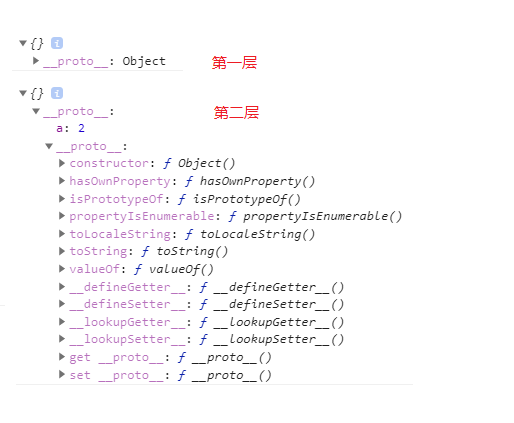
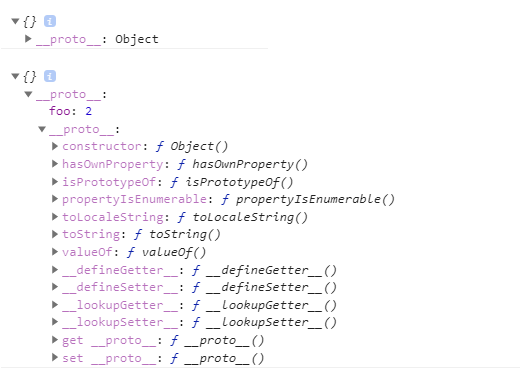
feat:20210207

diff --git a/source/_posts/你不知道的JS系列-3.md b/source/_posts/你不知道的JS系列-3.md
@@ -16,7 +16,7 @@ Javascript的基本设计思路如下：
       (3)借鉴Scheme语言，将函数提升到"第一等公民"(first class)的地位;
       (4)借鉴Self语言，使用基于原型(prototype)的继承机制
 
-说好听点就是集各家所长，难听点就是四不像了~；设计者也未曾料到Javascript会发展壮大到如今的地步，所谓时势造英雄。
+说好听点就是集各家所长，难听点就是四不像了~；设计者也未曾料到Javascript会发展壮大到如今的地步，所谓时势造英雄。在深入了解Javascript后，应当取其精华，弃其糟泊；在《你不知道的JavaScript》中，本书作者其实是极其不推荐使用“模拟类”来设计代码。更推崇使用“行为委托”的方式设计代码。
 
 下面，我们进入正题，再次学习下Javascript的原型与类
 
@@ -29,26 +29,78 @@ Javascript的基本设计思路如下：
 因为一些政治原因，JavaScript 推出之时受管理层之命被要求模仿 Java，所以，Brendan Eich 在“原型运行时”的基础上引入了 new、this 等语言特性，使之“看起来更像 Java”，不过也导致JavaScript的原型链更难理解。
 
 ## 原型
-在 JavaScript 之前，原型系统就更多与高动态性语言配合，Brendan Eich最终选择了原型系统来进行设计，而原型系统的原型系统的“复制操作”有两种实现思路：
+在 JavaScript 之前，原型系统就更多与高动态性语言配合，Brendan Eich最终选择了原型系统来进行设计，而原型系统的“复制操作”有两种实现思路：
 
 - 一个是并不真的去复制一个原型对象，而是使得新对象持有一个原型的引用；
 - 另一个是切实地复制对象，从此两个对象再无关联。
 
 显然，Brendan Eich选择的是第一种，上面已经多次提到了`[[Prototype]]`，就是关联对象的特殊属性：
 
-    var anotherObject = { a:2 }; 
+    var anotherObject = { foo:2 }; 
     var myObject = Object.create( anotherObject );// 创建一个关联到 anotherObject 的对象
-    console.log(myObject.a);// 2
+    console.log(myObject.foo);// 2
 
 熟悉JS中原型链的很容易理解上面的运行结果，当我们获取一个对象属性时就会触发`[[Get]]`操作，该操作的第一步就是检查获取的属性是否存在当前对象中，如果有就使用，如果没有则会顺着对象的`[[Prototype]]`属性继续查找，使用 `for..in` 遍历对象时原理和查找 `[[Prototype]]` 链类似，所有普通的 `[[Prototype]]` 链最终都会指向内置的 `Object.prototype`
 
+
 ![](./1.png)
 
+JavaScript 中的对象具有高度的动态性：允许运行时向对象添加属性，这点与其他语言是完全不同的。我们为`myObject`添加属性
+    
+     myObject.foo='bar'
+     console.log(myObject.foo, anotherObject.foo) ;// bar, 2
 
+这个过程发生了“属性屏蔽”，也就是说，myObject 中包含的 foo 属性会屏蔽原型链上层的所有 foo 属性。
+我们都习以为常，但是这个过程 其实存在三种情况，“属性屏蔽”不是一定发生的：
+
+  1. 如果在 [[Prototype]] 链上层存在名为 foo 的普通数据访问属性并且没 有被标记为只读（writable:false），那就会直接在 myObject 中添加一个名为 foo 的新 属性，它是屏蔽属性。 
+  2. 如果在 [[Prototype]] 链上层存在 foo，但是它被标记为只读（writable:false），那么 无法修改已有属性或者在 myObject 上创建屏蔽属性。如果运行在严格模式下，代码会 抛出一个错误。否则，这条赋值语句会被忽略。总之，不会发生屏蔽。 
+  3. 如果在 [[Prototype]] 链上层存在 foo 并且它是一个 setter（参见第 3 章），那就一定会 调用这个 setter。foo 不会被添加到（或者说屏蔽于）myObject，也不会重新定义 foo 这 个 setter。
+
+与我们常规认知不同，属性屏蔽只有在第一种情况下才发生。如果想要第二、三种也发生属性屏蔽，就需要使用`Object.defineProperty`方法来添加属性
+
+### \_\_proto\_\_ 与 prototype
+
+- \_\_proto\_\_  属性是一个访问器属性（一个getter函数和一个setter函数）, 暴露了通过它访问的对象的内部[[Prototype]] (一个对象或 null)，这个属性并不是一个正式的对外的 API，只是由于浏览器广泛支持，才被加入了 ES6，但官网仍旧**不推荐使用**，而是使用`Object.setPrototypeOf`（写操作）、`Object.getPrototypeOf`（读操作）、`Object.create`（生成操作）来代替。
+
+- prototype是函数才有的属性!!! 所有的函数默认都会拥有一个名为`prototype `的公有并且不可枚举的属性，它会指向另一个对象（通常被称为该函数的原型）。
+
+### “类”函数
+先看一下如下的代码：
+
+    function Foo(name){
+      this.name=name
+    }
+    Foo.prototype.sayHi=function(){
+      console.log("Hi,"+this.name)
+    }
+    var f=new Foo("Tom")
+    f.sayHi()                                             // Hi,Tom
+    console.log(f.__proto__===Foo.prototype)              // true
+    console.log(Object.getPrototypeOf(f)===Foo.prototype) // true
+    console.log(Foo.prototype.constructor===Foo)           // true
+    console.log(f.constructor===Foo)                       // true
+
+通过 new 关键字 “实例”一个对象，`Foo`也通常被称作“构造函数”，但我们都知道，js的世界里面是没有类的，new 关键字也是Brendan Eich 模仿Java语法而设计出来的。实例f并没有方法`sayHi`，但看起来却向“继承”了Foo的方法，那么，这个过程究竟发生了什么？
+
+通过new调用函数时，会将实例内部的[[Prototype]]属性(`__proto__`)关联到“类”函数的`prototype`属性下，也就是：`f.__proto__===Foo.prototype`，这样两个对象产生了关联，执行`f.sayHi`时会根据原型链查找到`Foo.prototype.sayHi`，此时看起来就像产生了所谓的“继承”，但是，JavaScript在这个过程并没有复制对象，只是通过委托的方式进行了属性(方法)的共享。
+
+
+
+### “构造”函数
+
+上述代码中`f.constructor===Foo`很容易让人误解 `Foo` 就是 `f`的构造函数（再加上new操作符更加深了这种误解），但实际并非如此：
+
+`Object.prototype`对象下有一个公有并且不可枚举的属性`constructor`，这个属性引用的是对象关联的函数(本例为Foo)，而调用`f.constructor`跟过程其实也只是通过委托访问到了`Foo.prototype.constructor`，这点一定要明白：f下并不存在属性`constructor`！！！！
+
+
+Foo 和其他函数没有任何区别。函数本身并不是构造函数，当我们在普通的函数调用前面加上 new 关键字之后，new 就会劫持所有普通函数并用构造对象的形式来调用它。
+
+![](./2.png)
 ## 类
-我们经常讨论到的设计模式如：迭代器模式、观察者模式、工厂模式、单例模式等，都是基于面向对象类的基础上实现了。**类本身也是一种设计模式!!!!**；在Javascript的世界中，类不是必须的（这点不同于Java，Java中万物都是类），也可以选择面向过程化编程。
+首先要明白一点：在Javascript的世界中，“模拟类”不是必须的（这点不同于Java，Java中万物都是类），因为Javascript无需通过类就可以直接创建对象。
 
-纵然ES6中提供了class等关键字，但Javascript依旧是面向对象的编程语言，而非面向类。
+在早期版本的 JavaScript 中，“类”的定义是一个私有属性 `[[class]]`，并且只能通过`Object.prototype.toString`来访问（这个方法是js中最准确判断数据类型的方法）。纵然ES6中提供了class等关键字，但Javascript依旧是面向对象的编程语言，而非面向类。
 
 ### 理解类与实例
 如果拿建筑蓝图与建筑实体来做类比：建筑蓝图就是一个类，它只是建造计划，并不是真正的建筑；而依旧设计蓝图建造出来的实体建筑就是一个实例：它是一个真正存在的对象。
@@ -79,6 +131,7 @@ Javascript的基本设计思路如下：
   《JavaScript高级程序设计》-第6章 面向对象的程序设计-6.2 创建对象中有
 
 - 继承
+
 在面向类的语言中，我们可以先定义一个类，然后定义一个继承前者的类。 后者通常被称为“子类”，前者通常被称为“父类”，这点非常类似现实中的“父亲与孩子”。
 子类会继承父类的一些属性与方法，但是也可以重写所有继承的行为甚至定义新行为，所以子类定义好后，其实是一个完全独立的不同于父类的类。子类只是父类行为复制后的一个副本
 
@@ -87,4 +140,8 @@ Javascript的基本设计思路如下：
 
 任何方法都可以引用继承层次中高层的方法，同时在继承链的不同层次中一个方法名可以被多次定义。在子类中也可以相对引用它继承的父类，这种相对引用 通常被称为`super`
 
+
+## 参考
+- [MDN--Object.prototype.\_\_proto\_\_](https://developer.mozilla.org/zh-CN/docs/Web/JavaScript/Reference/Global_Objects/Object/proto)
+- [简书--\_\_proto\_\_ 和 prototype](https://www.jianshu.com/p/3d756c5bba16)
 
